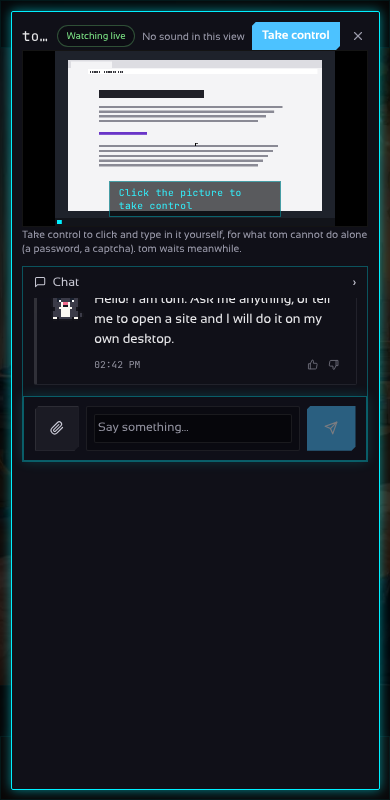
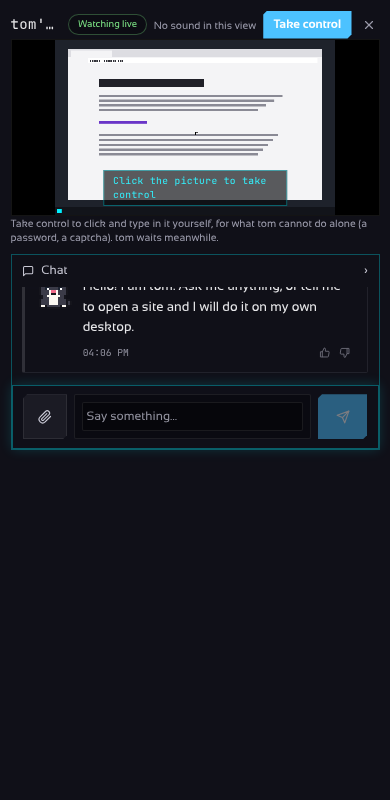
feat(desktop): open the live desktop window full screen
The viewer window now fills the viewport (100vw x 100dvh) instead of a
centred, capped box, so the picture is no longer squeezed and the chat
sidebar has the full height. Safe areas (notch, Android nav bar) and the
macOS title-bar inset are respected, and the head is a Wails drag handle.
Escape, close, control, audio and focus are unchanged.

Adds an e2e case for laptop and phone viewports, and refreshes the
live-chat screenshots and the landing image.

Claude-Session: https://claude.ai/code/session_017Z7sUc9FYVCJGJFkXimMea

Changed region(s): [[0.0, 0.0, 1.0, 1.0]]

diff --git a/desktop/frontend/e2e/screens.spec.ts b/desktop/frontend/e2e/screens.spec.ts
@@ -1315,13 +1315,10 @@ test("a kitty's desktop opens live from the chat, and the person can take contro
   await page.mouse.up();
   await expect.poll(() => inputs).toContain("drag");
   await expect(live.locator(".live-gesture")).toHaveCount(0);
-  // The window keeps its margins, and the picture stays inside its frame.
+  // The window fills the screen, and the picture stays inside its frame.
   const view = page.viewportSize()!;
   const dialog = (await live.getByRole("dialog").boundingBox())!;
-  expect(dialog.x).toBeGreaterThanOrEqual(8);
-  expect(dialog.y).toBeGreaterThanOrEqual(8);
-  expect(dialog.x + dialog.width).toBeLessThanOrEqual(view.width - 8);
-  expect(dialog.y + dialog.height).toBeLessThanOrEqual(view.height - 8);
+  expect(dialog).toMatchObject({ x: 0, y: 0, width: view.width, height: view.height });
   const surface = (await live.locator(".live-surface").boundingBox())!;
   const shown = (await frame.boundingBox())!;
   expect(shown.x).toBeGreaterThanOrEqual(surface.x);
@@ -1417,6 +1414,39 @@ test("on a phone the live desktop's chat is stacked under the picture, folded un
   await chat.getByTestId("live-chat-toggle").click();
   await expect(chat.getByRole("textbox")).toBeVisible();
   await shot(page, "58-live-chat-phone");
+});
+
+test("the live desktop window fills the whole screen, on a laptop and on a phone", async ({
+  page,
+}) => {
+  for (const size of [
+    { width: 1440, height: 900 },
+    { width: 390, height: 800 },
+  ]) {
+    await page.setViewportSize(size);
+    await page.goto(`/${Q}#chat/${ids.desktop}`);
+    await page.getByTestId("open-desktop").first().click();
+    const live = page.getByTestId("live-desktop");
+    await expect(live).toBeVisible();
+    // The window covers the viewport edge to edge: nothing is cut, nothing floats in a margin.
+    const win = (await live.boundingBox())!;
+    expect(win).toMatchObject({ x: 0, y: 0, width: size.width, height: size.height });
+    const box = (await live.getByRole("dialog").boundingBox())!;
+    expect(box).toMatchObject({ x: 0, y: 0, width: size.width, height: size.height });
+    // The picture and the chat stay inside it.
+    const surface = (await live.locator(".live-surface").boundingBox())!;
+    expect(surface.x + surface.width).toBeLessThanOrEqual(size.width + 1);
+    expect(surface.y + surface.height).toBeLessThanOrEqual(size.height + 1);
+    const chat = (await live.getByTestId("live-chat").boundingBox())!;
+    expect(chat.x + chat.width).toBeLessThanOrEqual(size.width + 1);
+    if (size.width >= 768) {
+      // Beside the picture, the chat has the window's full height.
+      expect(chat.height).toBeGreaterThan(size.height - 80);
+    }
+    // Escape still closes it.
+    await page.keyboard.press("Escape");
+    await expect(live).toBeHidden();
+  }
 });
 
 test("in a kitty's drawer the desktop is there, live, and one click on it takes the controls", async ({

diff --git a/desktop/frontend/src/index.css b/desktop/frontend/src/index.css
@@ -1911,3 +1911,48 @@ a.attach-chip:hover {
     width: 2.75rem;
   }
 }
+
+/* The live desktop window fills the screen: the whole viewport (dynamic, so a phone's address bar
+   does not cut it), clear of notches, the Android navigation bar and the Wails title bar. */
+.live-window {
+  width: 100vw;
+  height: 100vh;
+  height: 100dvh;
+}
+.live-window-box {
+  width: 100%;
+  height: 100%;
+  max-width: none;
+  max-height: none;
+  border-radius: 0;
+  border-width: 0;
+  box-shadow: none;
+  padding: 0.75rem;
+  padding-top: max(0.75rem, env(safe-area-inset-top));
+  padding-right: max(0.75rem, env(safe-area-inset-right));
+  padding-bottom: max(0.75rem, env(safe-area-inset-bottom));
+  padding-left: max(0.75rem, env(safe-area-inset-left));
+}
+@media (min-width: 640px) {
+  .live-window-box {
+    padding-left: max(1rem, env(safe-area-inset-left));
+    padding-right: max(1rem, env(safe-area-inset-right));
+  }
+}
+/* macOS draws its window buttons over the top-left corner: the head keeps clear of them. */
+html.mac-inset .live-window-box {
+  padding-top: 18px;
+}
+html.mac-inset .live-head {
+  padding-left: 76px;
+}
+/* The chat takes the full height beside the picture. */
+.live-window .live-body,
+.live-window .live-chat {
+  min-height: 0;
+}
+@media (min-width: 768px) {
+  .live-window .live-chat {
+    align-self: stretch;
+  }
+}

diff --git a/desktop/frontend/src/LiveDesktop.tsx b/desktop/frontend/src/LiveDesktop.tsx
@@ -647,7 +647,7 @@ export default function LiveDesktop({
   const content = (
     <>
       {windowed ? (
-        <div class="flex items-center gap-2 flex-wrap shrink-0">
+        <div class="live-head titlebar flex items-center gap-2 flex-wrap shrink-0">
           <h2 class="font-mono text-base tracking-wide flex-1 min-w-0 truncate">{name}</h2>
           <span
             class={`state-pill max-w-full ${control ? "is-working" : "is-ok"}`}
@@ -947,15 +947,16 @@ export default function LiveDesktop({
   }
   return (
     <div
-      class="fixed inset-0 z-50 bg-black/80 flex items-center justify-center p-3 sm:p-6 backdrop"
+      class="live-window fixed inset-0 z-50 bg-black/80 backdrop"
       onClick={leave}
       data-modal
       data-testid="live-desktop"
     >
       <div
-        class="chat-modal w-full max-w-6xl h-full max-h-[56rem] p-3 sm:p-4 flex flex-col gap-3 overflow-hidden"
+        class="live-window-box chat-modal flex flex-col gap-3 overflow-hidden"
         onClick={(e) => e.stopPropagation()}
         role="dialog"
+        aria-modal="true"
         aria-label={name}
       >
         {chat || onStartChat ? (
